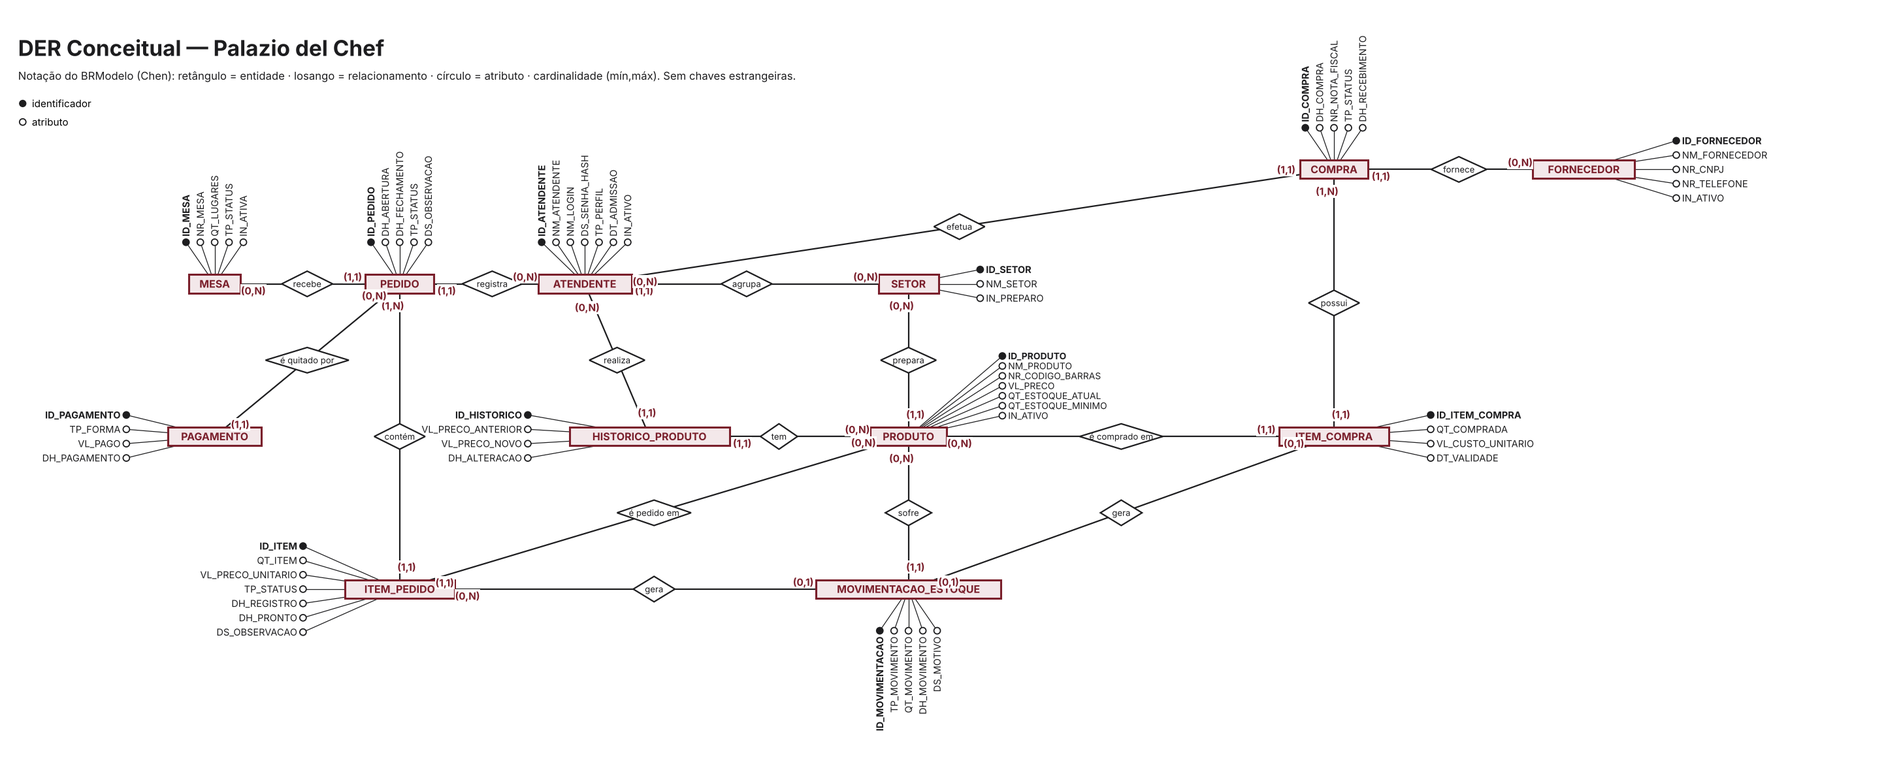
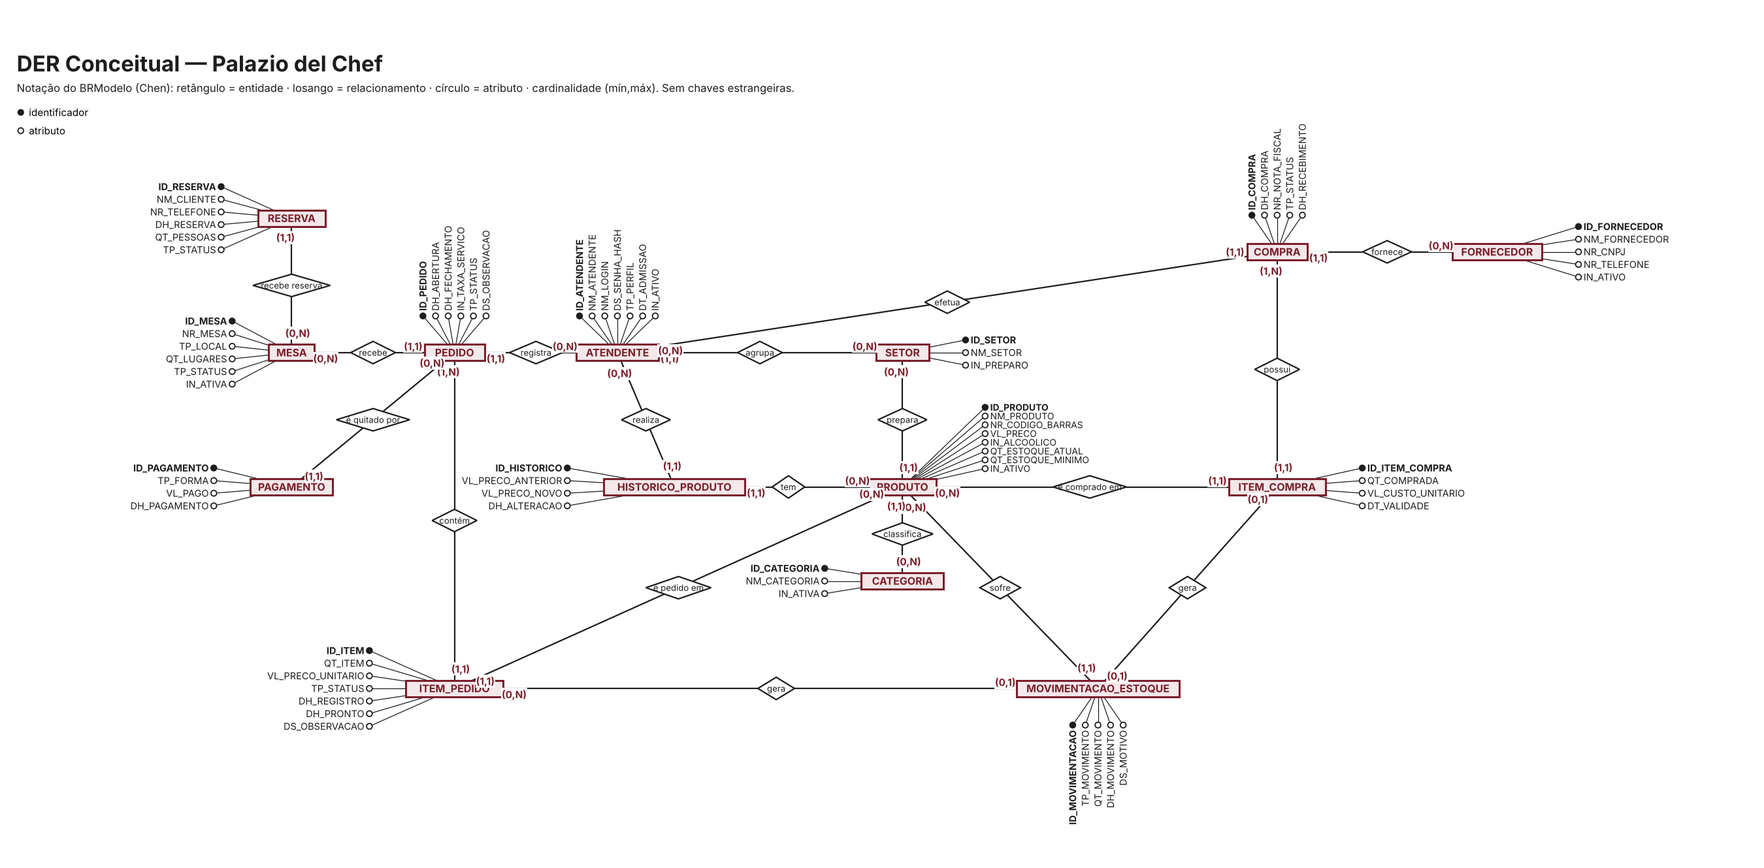
DER e dicionário: reserva, categoria, tipo de mesa, taxa de serviço e bebida alcoólica
Claude-Session: https://claude.ai/code/session_019trHHR69n4tTvRuYAU1HD6

diff --git a/dicionario_dados_palazio/index.html b/dicionario_dados_palazio/index.html
@@ -15,8 +15,13 @@ img{max-width:100%;height:auto;border:1px solid var(--bd);border-radius:6px}.n{c
 <strong>Privacidade:</strong> todos os exemplos de valores são <strong>fictícios</strong>.
 <code>[VALIDAR]</code> Os atributos são uma proposta. <strong>Confira com o dicionário e o DER que o grupo já fez</strong> e ajuste o que divergir.</p>
 </blockquote>
+<blockquote>
+<p>Segue o modelo do arquivo 02-03g da disciplina. A versão completa em HTML está em <a href="./dicionario_dados_palazio/index.html"><code>dicionario_dados_palazio/index.html</code></a>.
+<strong>Privacidade:</strong> todos os exemplos de valores são <strong>fictícios</strong>.
+<code>[VALIDAR]</code> Os atributos são uma proposta. <strong>Confira com o dicionário e o DER que o grupo já fez</strong> e ajuste o que divergir.</p>
+</blockquote>
 <h2>5.1 Modelo conceitual e cardinalidades</h2>
-<p>Este modelo representa um restaurante e bar em que o cliente é atendido em uma <strong>mesa</strong>. Um <strong>atendente</strong> registra o <strong>pedido</strong>, composto de <strong>itens</strong>. Cada item é de um <strong>produto</strong>, preparado no <strong>setor</strong> (cozinha ou bar), e a conta é quitada por um ou mais <strong>pagamentos</strong>. O estoque dos produtos é reposto por <strong>compras</strong> a <strong>fornecedores</strong> e controlado por <strong>movimentações</strong>.</p>
+<p>Este modelo representa um restaurante e bar em que o cliente, com ou sem <strong>reserva</strong>, é atendido em uma <strong>mesa</strong> (ou bistrô). Um <strong>atendente</strong> (o garçom) registra o <strong>pedido</strong>, composto de <strong>itens</strong>. Cada item é de um <strong>produto</strong>, que pertence a uma <strong>categoria</strong> do cardápio e é preparado no <strong>setor</strong> (cozinha ou bar), e a conta é quitada por um ou mais <strong>pagamentos</strong>. O estoque dos produtos é reposto por <strong>compras</strong> a <strong>fornecedores</strong> e controlado por <strong>movimentações</strong>.</p>
 <table>
 <thead>
 <tr>
@@ -40,6 +45,16 @@ img{max-width:100%;height:auto;border:1px solid var(--bd);border-radius:6px}.n{c
 <td>ATENDENTE</td>
 <td>PEDIDO</td>
 <td>1:N — um atendente registra vários pedidos; cada pedido tem exatamente um atendente</td>
+</tr>
+<tr>
+<td>MESA</td>
+<td>RESERVA</td>
+<td>1:N — uma mesa pode ser reservada várias vezes; cada reserva é de uma mesa</td>
+</tr>
+<tr>
+<td>CATEGORIA</td>
+<td>PRODUTO</td>
+<td>1:N — uma categoria do cardápio agrupa vários produtos; cada produto tem uma categoria</td>
 </tr>
 <tr>
 <td>MESA</td>
@@ -118,9 +133,9 @@ img{max-width:100%;height:auto;border:1px solid var(--bd);border-radius:6px}.n{c
 </tr>
 </tbody>
 </table>
-<p><strong>Definições.</strong> <strong>Setor</strong> é a área de trabalho (salão, cozinha, bar). <strong>Atendente</strong> é o funcionário com credencial individual. <strong>Mesa</strong> é o local do cliente. <strong>Produto</strong> é o item vendido e estocado. <strong>Pedido</strong> é o atendimento de uma mesa. <strong>Item do pedido</strong> é um produto pedido, com quantidade, preço e status. <strong>Pagamento</strong> é a quitação, total ou parcial, do pedido. <strong>Fornecedor</strong> é a empresa que vende mercadoria. <strong>Compra</strong> é o pedido de mercadoria a um fornecedor. <strong>Item da compra</strong> é um produto comprado, com quantidade, custo e validade. <strong>Movimentação de estoque</strong> é cada entrada, saída, estorno ou ajuste do saldo de um produto. <strong>Histórico do produto</strong> é o registro de cada alteração de preço.</p>
+<p><strong>Definições.</strong> <strong>Setor</strong> é a área de trabalho (salão, cozinha, bar, gerência, limpeza). <strong>Categoria</strong> é o grupo do cardápio (lanches, pratos, porções, sobremesas, bebidas etc.). <strong>Reserva</strong> é a mesa guardada por telefone, para uma data e hora. <strong>Atendente</strong> é o funcionário com credencial individual. <strong>Mesa</strong> é o local do cliente. <strong>Produto</strong> é o item vendido e estocado. <strong>Pedido</strong> é o atendimento de uma mesa. <strong>Item do pedido</strong> é um produto pedido, com quantidade, preço e status. <strong>Pagamento</strong> é a quitação, total ou parcial, do pedido. <strong>Fornecedor</strong> é a empresa que vende mercadoria. <strong>Compra</strong> é o pedido de mercadoria a um fornecedor. <strong>Item da compra</strong> é um produto comprado, com quantidade, custo e validade. <strong>Movimentação de estoque</strong> é cada entrada, saída, estorno ou ajuste do saldo de um produto. <strong>Histórico do produto</strong> é o registro de cada alteração de preço.</p>
 <h2>5.2 Fluxo de dados</h2>
-<p>Cliente chega → o atendente (autenticado em ATENDENTE) abre um PEDIDO em uma MESA → cada pedido gera registros em ITEM_PEDIDO, ligando o PEDIDO a um PRODUTO, que carrega o SETOR de preparo → cada item lançado gera uma baixa em MOVIMENTACAO_ESTOQUE e atualiza o saldo do PRODUTO → cozinha e bar atualizam o status do item → o cliente paga e cada forma usada vira um registro em PAGAMENTO → com a soma dos pagamentos igual ao total, o PEDIDO é fechado e a MESA liberada. Quando o saldo do PRODUTO chega ao mínimo, a gerência registra uma COMPRA a um FORNECEDOR, com ITEM_COMPRA → no recebimento, cada item gera uma entrada em MOVIMENTACAO_ESTOQUE. Os reajustes de preço feitos pela gerência geram registros em HISTORICO_PRODUTO. Toda leitura ou escrita relevante é registrada no log do SGBD (seção 5.5), o que sustenta a auditoria e a conformidade com a LGPD (seção 5.6).</p>
+<p>O cliente reserva por telefone (RESERVA, ligada a uma MESA) ou entra e vê se há lugar → o atendente (autenticado em ATENDENTE) abre um PEDIDO em uma MESA → cada pedido gera registros em ITEM_PEDIDO, ligando o PEDIDO a um PRODUTO, que carrega a CATEGORIA do cardápio e o SETOR de preparo → cada item lançado gera uma baixa em MOVIMENTACAO_ESTOQUE e atualiza o saldo do PRODUTO → cozinha e bar atualizam o status do item → o cliente paga e cada forma usada vira um registro em PAGAMENTO → com a soma dos pagamentos igual ao total, o PEDIDO é fechado e a MESA liberada. Quando o saldo do PRODUTO chega ao mínimo, a gerência registra uma COMPRA a um FORNECEDOR, com ITEM_COMPRA → no recebimento, cada item gera uma entrada em MOVIMENTACAO_ESTOQUE. Os reajustes de preço feitos pela gerência geram registros em HISTORICO_PRODUTO. Toda leitura ou escrita relevante é registrada no log do SGBD (seção 5.5), o que sustenta a auditoria e a conformidade com a LGPD (seção 5.6).</p>
 <h2>5.3 Convenções do dicionário</h2>
 <ul>
 <li><strong>SGBD de referência:</strong> PostgreSQL 16.</li>
@@ -155,7 +170,7 @@ img{max-width:100%;height:auto;border:1px solid var(--bd);border-radius:6px}.n{c
 <td>NM_SETOR</td>
 <td>varchar(30)</td>
 <td>Sim</td>
-<td>Nome do setor. Ex.: Salão, Cozinha, Bar.</td>
+<td>Nome do setor. Ex.: Salão, Cozinha, Bar, Gerência, Limpeza.</td>
 <td>Único.</td>
 </tr>
 <tr>
@@ -163,14 +178,14 @@ img{max-width:100%;height:auto;border:1px solid var(--bd);border-radius:6px}.n{c
 <td>boolean</td>
 <td>Sim</td>
 <td>Indica se o setor prepara produtos.</td>
-<td>Verdadeiro para Cozinha e Bar. Só esses setores podem ser setor de preparo de um produto (RN06).</td>
+<td>Verdadeiro para Cozinha e Bar; falso para Salão, Gerência e Limpeza. Só esses setores podem ser setor de preparo de um produto (RN06).</td>
 </tr>
 </tbody>
 </table>
 <p>Índices: PK ID_SETOR; índice único em NM_SETOR.</p>
 <h3>ATENDENTE</h3>
 <p><code>ATENDENTE = @ID_ATENDENTE + ID_SETOR + NM_ATENDENTE + NM_LOGIN + DS_SENHA_HASH + TP_PERFIL + DT_ADMISSAO + IN_ATIVO</code></p>
-<p><em>Leitura:</em> <code>TP_PERFIL</code> exige escolher um perfil entre Atendimento (A), Preparo (P) e Gerência (G). Todos os campos são obrigatórios.</p>
+<p><em>Leitura:</em> <code>TP_PERFIL</code> exige escolher um perfil entre Atendimento (A), Preparo (P), Gerência (G) e Sócio (S). Todos os campos são obrigatórios. A equipe de limpeza só é cadastrada se precisar de acesso <code>[VALIDAR]</code>.</p>
 <table>
 <thead>
 <tr>
@@ -219,9 +234,9 @@ img{max-width:100%;height:auto;border:1px solid var(--bd);border-radius:6px}.n{c
 </tr>
 <tr>
 <td>TP_PERFIL</td>
-<td>char(1) (A, P, G)</td>
+<td>char(1) (A, P, G, S)</td>
 <td>Sim</td>
-<td>Perfil de acesso: Atendimento, Preparo (cozinha ou bar) ou Gerência.</td>
+<td>Perfil de acesso: Atendimento (garçom), Preparo (cozinha ou bar), Gerência ou Sócio (proprietário).</td>
 <td>Define as permissões (RNF02).</td>
 </tr>
 <tr>
@@ -242,8 +257,8 @@ img{max-width:100%;height:auto;border:1px solid var(--bd);border-radius:6px}.n{c
 </table>
 <p>Índices: PK ID_ATENDENTE; índice único em NM_LOGIN (autenticação); índice em ID_SETOR.</p>
 <h3>MESA</h3>
-<p><code>MESA = @ID_MESA + NR_MESA + QT_LUGARES + TP_STATUS + IN_ATIVA</code></p>
-<p><em>Leitura:</em> <code>TP_STATUS</code> é Livre (L) ou Ocupada (O).</p>
+<p><code>MESA = @ID_MESA + NR_MESA + TP_LOCAL + QT_LUGARES + TP_STATUS + IN_ATIVA</code></p>
+<p><em>Leitura:</em> <code>TP_LOCAL</code> é Mesa (M) ou Bistrô (B). <code>TP_STATUS</code> é Livre (L) ou Ocupada (O).</p>
 <table>
 <thead>
 <tr>
@@ -270,6 +285,13 @@ img{max-width:100%;height:auto;border:1px solid var(--bd);border-radius:6px}.n{c
 <td>Único (RN02).</td>
 </tr>
 <tr>
+<td>TP_LOCAL</td>
+<td>char(1) (M, B)</td>
+<td>Sim</td>
+<td>Tipo de lugar: mesa ou bistrô. O salão tem cerca de 30 mesas e 25 bistrôs.</td>
+<td>Domínio fechado.</td>
+</tr>
+<tr>
 <td>QT_LUGARES</td>
 <td>smallint</td>
 <td>Sim</td>
@@ -294,7 +316,7 @@ img{max-width:100%;height:auto;border:1px solid var(--bd);border-radius:6px}.n{c
 </table>
 <p>Índices: PK ID_MESA; índice único em NR_MESA.</p>
 <h3>PRODUTO</h3>
-<p><code>PRODUTO = @ID_PRODUTO + ID_SETOR + NM_PRODUTO + NR_CODIGO_BARRAS + VL_PRECO + QT_ESTOQUE_ATUAL + QT_ESTOQUE_MINIMO + IN_ATIVO</code></p>
+<p><code>PRODUTO = @ID_PRODUTO + ID_SETOR + ID_CATEGORIA + NM_PRODUTO + NR_CODIGO_BARRAS + VL_PRECO + IN_ALCOOLICO + QT_ESTOQUE_ATUAL + QT_ESTOQUE_MINIMO + IN_ATIVO</code></p>
 <table>
 <thead>
 <tr>
@@ -321,11 +343,18 @@ img{max-width:100%;height:auto;border:1px solid var(--bd);border-radius:6px}.n{c
 <td>Setor com IN_PREPARO verdadeiro (RN06).</td>
 </tr>
 <tr>
+<td>ID_CATEGORIA</td>
+<td>integer</td>
+<td>Sim (FK)</td>
+<td>Categoria do cardápio do produto.</td>
+<td>Todo produto tem uma categoria (RN29).</td>
+</tr>
+<tr>
 <td>NM_PRODUTO</td>
 <td>varchar(80)</td>
 <td>Sim</td>
-<td>Nome no cardápio. Ex.: "Risoto de funghi", "Chope 300 ml".</td>
-<td>—</td>
+<td>Nome no cardápio, com a variação de tamanho quando houver. Ex.: "Risoto de cogumelos", "Bife de contrafilé (2 pessoas)".</td>
+<td>Variações são produtos distintos (RN27).</td>
 </tr>
 <tr>
 <td>NR_CODIGO_BARRAS</td>
@@ -340,6 +369,13 @@ img{max-width:100%;height:auto;border:1px solid var(--bd);border-radius:6px}.n{c
 <td>Sim</td>
 <td>Preço de venda atual.</td>
 <td>Maior que zero. Reajuste não altera pedidos antigos (RN07). Só a gerência altera (RN24).</td>
+</tr>
+<tr>
+<td>IN_ALCOOLICO</td>
+<td>boolean</td>
+<td>Sim</td>
+<td>Indica bebida alcoólica.</td>
+<td>Venda só para maiores de 18 anos, com conferência de documento (RN18).</td>
 </tr>
 <tr>
 <td>QT_ESTOQUE_ATUAL</td>
@@ -364,7 +400,7 @@ img{max-width:100%;height:auto;border:1px solid var(--bd);border-radius:6px}.n{c
 </tr>
 </tbody>
 </table>
-<p>Índices: PK ID_PRODUTO; índice único em NR_CODIGO_BARRAS; índice em ID_SETOR; índice em NM_PRODUTO (busca no lançamento do pedido).</p>
+<p>Índices: PK ID_PRODUTO; índice único em NR_CODIGO_BARRAS; índice em ID_SETOR; índice em ID_CATEGORIA; índice em NM_PRODUTO (busca no lançamento do pedido).</p>
 <h3>HISTORICO_PRODUTO <em>(proposta de definição — o README original só citava o nome)</em></h3>
 <p><code>HISTORICO_PRODUTO = @ID_HISTORICO + ID_PRODUTO + ID_ATENDENTE + VL_PRECO_ANTERIOR + VL_PRECO_NOVO + DH_ALTERACAO</code></p>
 <table>
@@ -424,7 +460,7 @@ img{max-width:100%;height:auto;border:1px solid var(--bd);border-radius:6px}.n{c
 </table>
 <p>Índices: PK ID_HISTORICO; índice em (ID_PRODUTO, DH_ALTERACAO).</p>
 <h3>PEDIDO</h3>
-<p><code>PEDIDO = @ID_PEDIDO + ID_MESA + ID_ATENDENTE + DH_ABERTURA + (DH_FECHAMENTO) + TP_STATUS + (DS_OBSERVACAO)</code></p>
+<p><code>PEDIDO = @ID_PEDIDO + ID_MESA + ID_ATENDENTE + DH_ABERTURA + (DH_FECHAMENTO) + IN_TAXA_SERVICO + TP_STATUS + (DS_OBSERVACAO)</code></p>
 <p><em>Leitura:</em> <code>DH_FECHAMENTO</code> e <code>DS_OBSERVACAO</code> são opcionais. <code>TP_STATUS</code> é Aberto (A), Fechado (F) ou Cancelado (C).</p>
 <table>
 <thead>
@@ -473,6 +509,13 @@ img{max-width:100%;height:auto;border:1px solid var(--bd);border-radius:6px}.n{c
 <td>Obrigatória quando o status for Fechado (RN10).</td>
 </tr>
 <tr>
+<td>IN_TAXA_SERVICO</td>
+<td>boolean</td>
+<td>Sim</td>
+<td>Se a taxa de serviço de 10% foi cobrada neste pedido.</td>
+<td>Padrão: verdadeiro (RN16). <code>[VALIDAR: o cliente pode recusar?]</code></td>
+</tr>
+<tr>
 <td>TP_STATUS</td>
 <td>char(1) (A, F, C)</td>
 <td>Sim</td>
@@ -488,7 +531,7 @@ img{max-width:100%;height:auto;border:1px solid var(--bd);border-radius:6px}.n{c
 </tr>
 </tbody>
 </table>
-<p>O <strong>total do pedido não é atributo</strong>: é derivado (RN11).</p>
+<p>O <strong>total do pedido não é atributo</strong>: é derivado (RN11), assim como o valor da taxa de serviço (10% dos itens, RN16).</p>
 <p>Índices: PK ID_PEDIDO; índice em ID_MESA; índice em ID_ATENDENTE; índice em DH_ABERTURA (relatórios por período); índice único parcial em ID_MESA para pedidos abertos (RN05).</p>
 <h3>ITEM_PEDIDO <em>(entidade associativa PEDIDO × PRODUTO)</em></h3>
 <p><code>ITEM_PEDIDO = @ID_ITEM + ID_PEDIDO + ID_PRODUTO + QT_ITEM + VL_PRECO_UNITARIO + TP_STATUS + DH_REGISTRO + (DH_PRONTO) + (DS_OBSERVACAO)</code></p>
@@ -570,6 +613,109 @@ img{max-width:100%;height:auto;border:1px solid var(--bd);border-radius:6px}.n{c
 </tbody>
 </table>
 <p>Índices: PK ID_ITEM; índice em ID_PEDIDO; índice em ID_PRODUTO; índice em (TP_STATUS) para a fila do setor.</p>
+<h3>CATEGORIA <em>(proposta, a partir do cardápio)</em></h3>
+<p><code>CATEGORIA = @ID_CATEGORIA + NM_CATEGORIA + IN_ATIVA</code></p>
+<table>
+<thead>
+<tr>
+<th>Atributo</th>
+<th>Tipo</th>
+<th>Obrig.</th>
+<th>Descrição</th>
+<th>Regra de negócio associada</th>
+</tr>
+</thead>
+<tbody>
+<tr>
+<td>ID_CATEGORIA</td>
+<td>integer</td>
+<td>Sim (PK)</td>
+<td>Identificador da categoria.</td>
+<td>—</td>
+</tr>
+<tr>
+<td>NM_CATEGORIA</td>
+<td>varchar(40)</td>
+<td>Sim</td>
+<td>Nome do grupo do cardápio. Ex.: Lanches, Porções, Caipirinhas, Cervejas.</td>
+<td>Único.</td>
+</tr>
+<tr>
+<td>IN_ATIVA</td>
+<td>boolean</td>
+<td>Sim</td>
+<td>Se a categoria está no cardápio.</td>
+<td>Não se exclui (RN13).</td>
+</tr>
+</tbody>
+</table>
+<p>Índices: PK ID_CATEGORIA; índice único em NM_CATEGORIA.</p>
+<h3>RESERVA <em>(confirmada na visita; atributos propostos)</em></h3>
+<p><code>RESERVA = @ID_RESERVA + ID_MESA + NM_CLIENTE + (NR_TELEFONE) + DH_RESERVA + QT_PESSOAS + TP_STATUS</code></p>
+<p><em>Leitura:</em> <code>TP_STATUS</code> é Ativa (A), Atendida (T) ou Cancelada (C). <code>NR_TELEFONE</code> é opcional.</p>
+<table>
+<thead>
+<tr>
+<th>Atributo</th>
+<th>Tipo</th>
+<th>Obrig.</th>
+<th>Descrição</th>
+<th>Regra de negócio associada</th>
+</tr>
+</thead>
+<tbody>
+<tr>
+<td>ID_RESERVA</td>
+<td>integer</td>
+<td>Sim (PK)</td>
+<td>Identificador da reserva.</td>
+<td>—</td>
+</tr>
+<tr>
+<td>ID_MESA</td>
+<td>integer</td>
+<td>Sim (FK)</td>
+<td>Mesa reservada.</td>
+<td>Mesa ativa (RN28).</td>
+</tr>
+<tr>
+<td>NM_CLIENTE</td>
+<td>varchar(80)</td>
+<td>Sim</td>
+<td>Nome de quem reservou. Ex.: "Carlos Mendes" (fictício).</td>
+<td>Dado pessoal mínimo (LGPD).</td>
+</tr>
+<tr>
+<td>NR_TELEFONE</td>
+<td>varchar(15)</td>
+<td>Não</td>
+<td>Telefone para confirmar.</td>
+<td>Dado pessoal; acesso restrito (seção 5.6).</td>
+</tr>
+<tr>
+<td>DH_RESERVA</td>
+<td>timestamp</td>
+<td>Sim</td>
+<td>Data e hora para as quais a mesa foi reservada.</td>
+<td>Futuro no momento do cadastro.</td>
+</tr>
+<tr>
+<td>QT_PESSOAS</td>
+<td>smallint</td>
+<td>Sim</td>
+<td>Quantidade de pessoas.</td>
+<td>Maior que zero e não maior que os lugares da mesa.</td>
+</tr>
+<tr>
+<td>TP_STATUS</td>
+<td>char(1) (A, T, C)</td>
+<td>Sim</td>
+<td>Ativa, Atendida ou Cancelada.</td>
+<td>Reserva não se exclui (RN13).</td>
+</tr>
+</tbody>
+</table>
+<p>Índices: PK ID_RESERVA; índice em (ID_MESA, DH_RESERVA).</p>
 <h3>PAGAMENTO <em>(proposta — o processo "Pagamento" não tinha entidade)</em></h3>
 <p><code>PAGAMENTO = @ID_PAGAMENTO + ID_PEDIDO + TP_FORMA + VL_PAGO + DH_PAGAMENTO</code></p>
 <p><em>Leitura:</em> <code>TP_FORMA</code> é Dinheiro (D), Crédito (C), Débito (B) ou Pix (P).</p>
@@ -893,11 +1039,18 @@ img{max-width:100%;height:auto;border:1px solid var(--bd);border-radius:6px}.n{c
 <td>Nenhum papel — só inativação</td>
 </tr>
 <tr>
-<td>SETOR, MESA</td>
+<td>SETOR, MESA, CATEGORIA</td>
 <td>Todos</td>
 <td>Gerência</td>
 <td>Gerência (mesa: também Atendimento, no status)</td>
 <td>Nenhum papel — só inativação</td>
+</tr>
+<tr>
+<td>RESERVA</td>
+<td>Atendimento, Gerência, Auditoria</td>
+<td>Atendimento, Gerência</td>
+<td>Atendimento, Gerência (status)</td>
+<td>Nenhum papel — só cancelamento</td>
 </tr>
 <tr>
 <td>PRODUTO</td>
@@ -950,7 +1103,7 @@ img{max-width:100%;height:auto;border:1px solid var(--bd);border-radius:6px}.n{c
 </tr>
 </tbody>
 </table>
-<p><strong>LGPD.</strong> O único dado pessoal do modelo é o do funcionário (ATENDENTE): nome, login e data de admissão. Não são guardados CPF, endereço nem telefone, por minimização de dados (art. 6º, III). A senha é guardada em hash. O acesso é restrito à Gerência e à Auditoria, e toda consulta fica no log (seção 5.5), o que sustenta a responsabilização (art. 6º, X). O modelo não tem dados sensíveis (art. 5º, II) nem dados de clientes. FORNECEDOR guarda dados de pessoa jurídica, fora do escopo da lei. A retenção dos dados de pedidos e compras segue o prazo fiscal <code>[VALIDAR com o contador do estabelecimento]</code>. Funcionário desligado é inativado e, ao fim do prazo de retenção, o nome pode ser anonimizado, nunca apagado fisicamente, para preservar a integridade do histórico.</p>
+<p><strong>LGPD.</strong> Os dados pessoais do modelo são os do funcionário (ATENDENTE: nome, login e data de admissão) e os do cliente que reserva mesa (RESERVA: nome e telefone). Não são guardados CPF nem endereço, por minimização de dados (art. 6º, III). A reserva é apagada ou anonimizada depois de atendida ou cancelada, no prazo definido pelo estabelecimento <code>[VALIDAR]</code>. A senha é guardada em hash. O acesso é restrito aos papéis da tabela, e toda consulta fica no log (seção 5.5), o que sustenta a responsabilização (art. 6º, X). O modelo não tem dados sensíveis (art. 5º, II) e não cadastra clientes, exceto o nome e o telefone da reserva. FORNECEDOR guarda dados de pessoa jurídica, fora do escopo da lei. A retenção dos dados de pedidos e compras segue o prazo fiscal <code>[VALIDAR com o contador do estabelecimento]</code>. Funcionário desligado é inativado e, ao fim do prazo de retenção, o nome pode ser anonimizado, nunca apagado fisicamente, para preservar a integridade do histórico.</p>
 <hr />
 <h2>Diagrama Entidade-Relacionamento</h2>
 <img src="diagrama_palazio_del_chef.png" alt="DER do Palazio del Chef">

diff --git a/Diagrama_Palazio_del_Chef/gerar_der.py b/Diagrama_Palazio_del_Chef/gerar_der.py
@@ -8,16 +8,18 @@ from matplotlib.patches import Rectangle, Polygon, Circle
 
 COR, TXT, DEST = "#7a1f2b", "#1d1d1f", "#f3e8ea"
 E = {  # nome: (x, y, lado dos atributos, [atributos]; o primeiro é o identificador)
- "MESA":(0,0,"up",["ID_MESA","NR_MESA","QT_LUGARES","TP_STATUS","IN_ATIVA"]),
- "PEDIDO":(2,0,"up",["ID_PEDIDO","DH_ABERTURA","DH_FECHAMENTO","TP_STATUS","DS_OBSERVACAO"]),
+ "MESA":(0,0,"left",["ID_MESA","NR_MESA","TP_LOCAL","QT_LUGARES","TP_STATUS","IN_ATIVA"]),
+ "RESERVA":(0,-2,"left",["ID_RESERVA","NM_CLIENTE","NR_TELEFONE","DH_RESERVA","QT_PESSOAS","TP_STATUS"]),
+ "CATEGORIA":(7.5,3.4,"left",["ID_CATEGORIA","NM_CATEGORIA","IN_ATIVA"]),
+ "PEDIDO":(2,0,"up",["ID_PEDIDO","DH_ABERTURA","DH_FECHAMENTO","IN_TAXA_SERVICO","TP_STATUS","DS_OBSERVACAO"]),
  "ATENDENTE":(4,0,"up",["ID_ATENDENTE","NM_ATENDENTE","NM_LOGIN","DS_SENHA_HASH","TP_PERFIL","DT_ADMISSAO","IN_ATIVO"]),
  "SETOR":(7.5,0,"right",["ID_SETOR","NM_SETOR","IN_PREPARO"]),
  "PAGAMENTO":(0,2,"left",["ID_PAGAMENTO","TP_FORMA","VL_PAGO","DH_PAGAMENTO"]),
  "HISTORICO_PRODUTO":(4.7,2,"left",["ID_HISTORICO","VL_PRECO_ANTERIOR","VL_PRECO_NOVO","DH_ALTERACAO"]),
- "PRODUTO":(7.5,2,"ur",["ID_PRODUTO","NM_PRODUTO","NR_CODIGO_BARRAS","VL_PRECO","QT_ESTOQUE_ATUAL","QT_ESTOQUE_MINIMO","IN_ATIVO"]),
+ "PRODUTO":(7.5,2,"ur",["ID_PRODUTO","NM_PRODUTO","NR_CODIGO_BARRAS","VL_PRECO","IN_ALCOOLICO","QT_ESTOQUE_ATUAL","QT_ESTOQUE_MINIMO","IN_ATIVO"]),
  "ITEM_COMPRA":(12.1,2,"right",["ID_ITEM_COMPRA","QT_COMPRADA","VL_CUSTO_UNITARIO","DT_VALIDADE"]),
- "ITEM_PEDIDO":(2,4,"left",["ID_ITEM","QT_ITEM","VL_PRECO_UNITARIO","TP_STATUS","DH_REGISTRO","DH_PRONTO","DS_OBSERVACAO"]),
- "MOVIMENTACAO_ESTOQUE":(7.5,4,"down",["ID_MOVIMENTACAO","TP_MOVIMENTO","QT_MOVIMENTO","DH_MOVIMENTO","DS_MOTIVO"]),
+ "ITEM_PEDIDO":(2,5,"left",["ID_ITEM","QT_ITEM","VL_PRECO_UNITARIO","TP_STATUS","DH_REGISTRO","DH_PRONTO","DS_OBSERVACAO"]),
+ "MOVIMENTACAO_ESTOQUE":(9.9,5,"down",["ID_MOVIMENTACAO","TP_MOVIMENTO","QT_MOVIMENTO","DH_MOVIMENTO","DS_MOTIVO"]),
  "COMPRA":(12.1,-1.5,"up",["ID_COMPRA","DH_COMPRA","NR_NOTA_FISCAL","TP_STATUS","DH_RECEBIMENTO"]),
  "FORNECEDOR":(14.8,-1.5,"right",["ID_FORNECEDOR","NM_FORNECEDOR","NR_CNPJ","NR_TELEFONE","IN_ATIVO"]),
 }
@@ -36,11 +38,13 @@ R = [  # (A, rótulo, B, card. em A, card. em B, deslocamento do losango 0..1)
  ("COMPRA","possui","ITEM_COMPRA","(1,N)","(1,1)"),
  ("PRODUTO","é comprado em","ITEM_COMPRA","(0,N)","(1,1)"),
  ("PRODUTO","sofre","MOVIMENTACAO_ESTOQUE","(0,N)","(1,1)"),
+ ("MESA","recebe reserva","RESERVA","(0,N)","(1,1)"),
+ ("CATEGORIA","classifica","PRODUTO","(0,N)","(1,1)"),
  ("ITEM_PEDIDO","gera","MOVIMENTACAO_ESTOQUE","(0,N)","(0,1)"),
  ("ITEM_COMPRA","gera","MOVIMENTACAO_ESTOQUE","(0,1)","(0,1)"),
 ]
 fig, ax = plt.subplots(figsize=(37, 17), dpi=100)
-ax.set_xlim(-9, 72); ax.set_ylim(21, -12); ax.axis("off"); ax.set_aspect("equal")
+ax.set_xlim(-14, 72); ax.set_ylim(25, -17); ax.axis("off"); ax.set_aspect("equal")
 BW = lambda n: 0.8 + 0.36*len(n)
 BH = 0.8
 def edge_point(cx, cy, w, h, tx, ty):
@@ -99,8 +103,8 @@ for n, (x, y, side, attrs) in E.items():
             ax.text(cx_+sg*0.25, cy_, at, ha="right" if side == "left" else "left", va="center",
                     fontsize=10.5, fontweight="bold" if pk else "normal", color=TXT, zorder=4)
             ax.add_patch(Circle((cx_, cy_), 0.14, fc=TXT if pk else "white", ec=TXT, lw=1.3, zorder=4))
-ax.text(-8.5, -10.2, "DER Conceitual — Palazio del Chef", fontsize=24, fontweight="bold", color=TXT, va="center")
-ax.text(-8.5, -9.0, "Notação do BRModelo (Chen): retângulo = entidade · losango = relacionamento · círculo = atributo · cardinalidade (mín,máx). Sem chaves estrangeiras.", fontsize=12, color=TXT, va="center")
-ax.add_patch(Circle((-8.3, -7.8), 0.14, fc=TXT, ec=TXT)); ax.text(-7.9, -7.8, "identificador", fontsize=11, va="center")
-ax.add_patch(Circle((-8.3, -7.0), 0.14, fc="white", ec=TXT, lw=1.3)); ax.text(-7.9, -7.0, "atributo", fontsize=11, va="center")
+ax.text(-13.5, -14.2, "DER Conceitual — Palazio del Chef", fontsize=24, fontweight="bold", color=TXT, va="center")
+ax.text(-13.5, -13.0, "Notação do BRModelo (Chen): retângulo = entidade · losango = relacionamento · círculo = atributo · cardinalidade (mín,máx). Sem chaves estrangeiras.", fontsize=12, color=TXT, va="center")
+ax.add_patch(Circle((-13.3, -11.8), 0.14, fc=TXT, ec=TXT)); ax.text(-12.9, -11.8, "identificador", fontsize=11, va="center")
+ax.add_patch(Circle((-13.3, -10.9), 0.14, fc="white", ec=TXT, lw=1.3)); ax.text(-12.9, -10.9, "atributo", fontsize=11, va="center")
 fig.savefig("diagrama_palazio_del_chef.png", bbox_inches="tight", facecolor="white")
